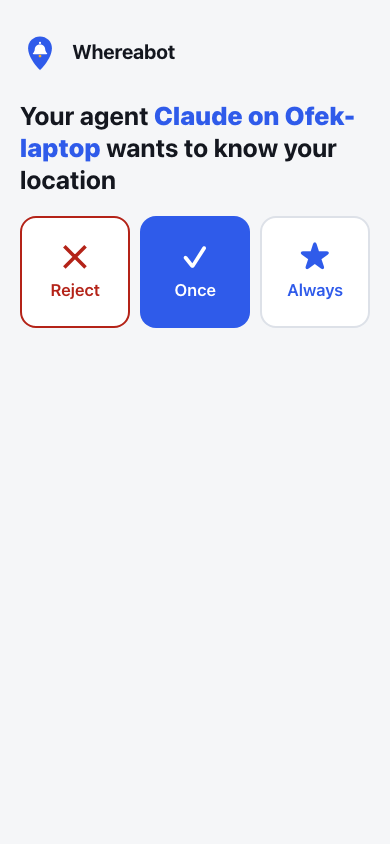
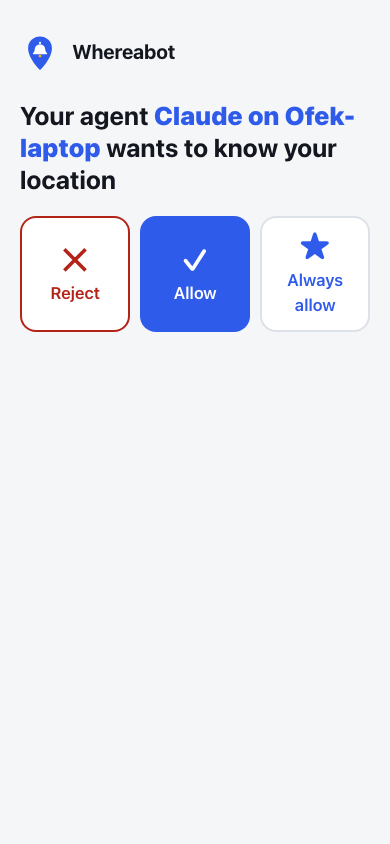
App 0.1.10: tiles read Reject, Allow, Always allow
'Once' read as 'only this time, never again'.

Changed region(s): [[0.0308, 0.2773, 0.3385, 0.4005], [0.3692, 0.2773, 0.6462, 0.4005], [0.7385, 0.2773, 0.8923, 0.3697]]

diff --git a/app/index.html b/app/index.html
@@ -78,8 +78,8 @@
           <h2 id="request-title" class="request-title" tabindex="-1">Your agent <strong id="req-name"></strong> wants to know your location</h2>
           <div class="tiles">
             <button id="reject" class="tile tile-reject" type="button"><span class="tile-icon" aria-hidden="true">✕</span>Reject</button>
-            <button id="allow" class="tile tile-once" type="button"><span class="tile-icon" aria-hidden="true">✓</span>Once</button>
-            <button id="always-allow" class="tile tile-always" type="button"><span class="tile-icon" aria-hidden="true">★</span>Always<span id="always-name" class="sr-only"></span></button>
+            <button id="allow" class="tile tile-allow" type="button"><span class="tile-icon" aria-hidden="true">✓</span>Allow</button>
+            <button id="always-allow" class="tile tile-always" type="button"><span class="tile-icon" aria-hidden="true">★</span>Always allow<span id="always-name" class="sr-only"></span></button>
           </div>
         </section>
         <section id="history" class="stack" aria-labelledby="history-title">

diff --git a/app/src/ui/request.ts b/app/src/ui/request.ts
@@ -27,12 +27,12 @@ export function showRequest(agent: Agent, signal: AbortSignal, canAlways = true)
     };
 
     $("req-name").textContent = agent.name;
-    $("always-name").textContent = ` allow ${agent.name}`;
+    $("always-name").textContent = ` ${agent.name}`;
     always.hidden = !canAlways;
     if (canAlways) delete box.dataset.noAlways;
     else box.dataset.noAlways = "1";
     setScreen("request");
-    announce(`Your agent ${agent.name} wants to know your location. Choose Reject, Once or Always.`);
+    announce(`Your agent ${agent.name} wants to know your location. Choose Reject, Allow or Always allow.`);
     $("request-title").focus();
 
     allow.addEventListener("click", () => finish("approve"), opts);

diff --git a/app/src/request.css b/app/src/request.css
@@ -15,7 +15,7 @@
   gap: 20px;
 }
 
-/* Three equal tiles: Reject, Once, Always. */
+/* Three equal tiles: Reject, Allow, Always allow. */
 .tiles {
   display: grid;
   grid-template-columns: repeat(3, 1fr);
@@ -49,7 +49,7 @@
   color: var(--off);
   border-color: var(--off);
 }
-.tile-once {
+.tile-allow {
   background: var(--primary);
   color: #fff;
 }

diff --git a/docs/screens/README.md b/docs/screens/README.md
@@ -19,7 +19,7 @@ Fake data only: every network call is stubbed. Light colour scheme, reduced moti
 | [app-perm-notifications-mobile.png](app-perm-notifications-mobile.png) | Step 2 of 2. Asks for notifications. Skip for now is allowed. |
 | [app-ping-answered-mobile.png](app-ping-answered-mobile.png) | A locate ping was answered. Shows the time of the reply. |
 | [app-relay-url-invalid-mobile.png](app-relay-url-invalid-mobile.png) | Relay URL is not secure. Connect is refused. |
-| [app-request-mobile.png](app-request-mobile.png) | An agent asks for the location. Three tiles: Reject, Once, Always. |
+| [app-request-mobile.png](app-request-mobile.png) | An agent asks for the location. Three tiles: Reject, Allow, Always allow. |
 | [app-signed-out-mobile.png](app-signed-out-mobile.png) | Signed out. Shows the Google sign-in button. |
 | [consent-approving-desktop.png](consent-approving-desktop.png) | Approve pressed. Both buttons are disabled while the answer is sent. (desktop) |
 | [consent-approving-mobile.png](consent-approving-mobile.png) | Approve pressed. Both buttons are disabled while the answer is sent. (mobile) |
